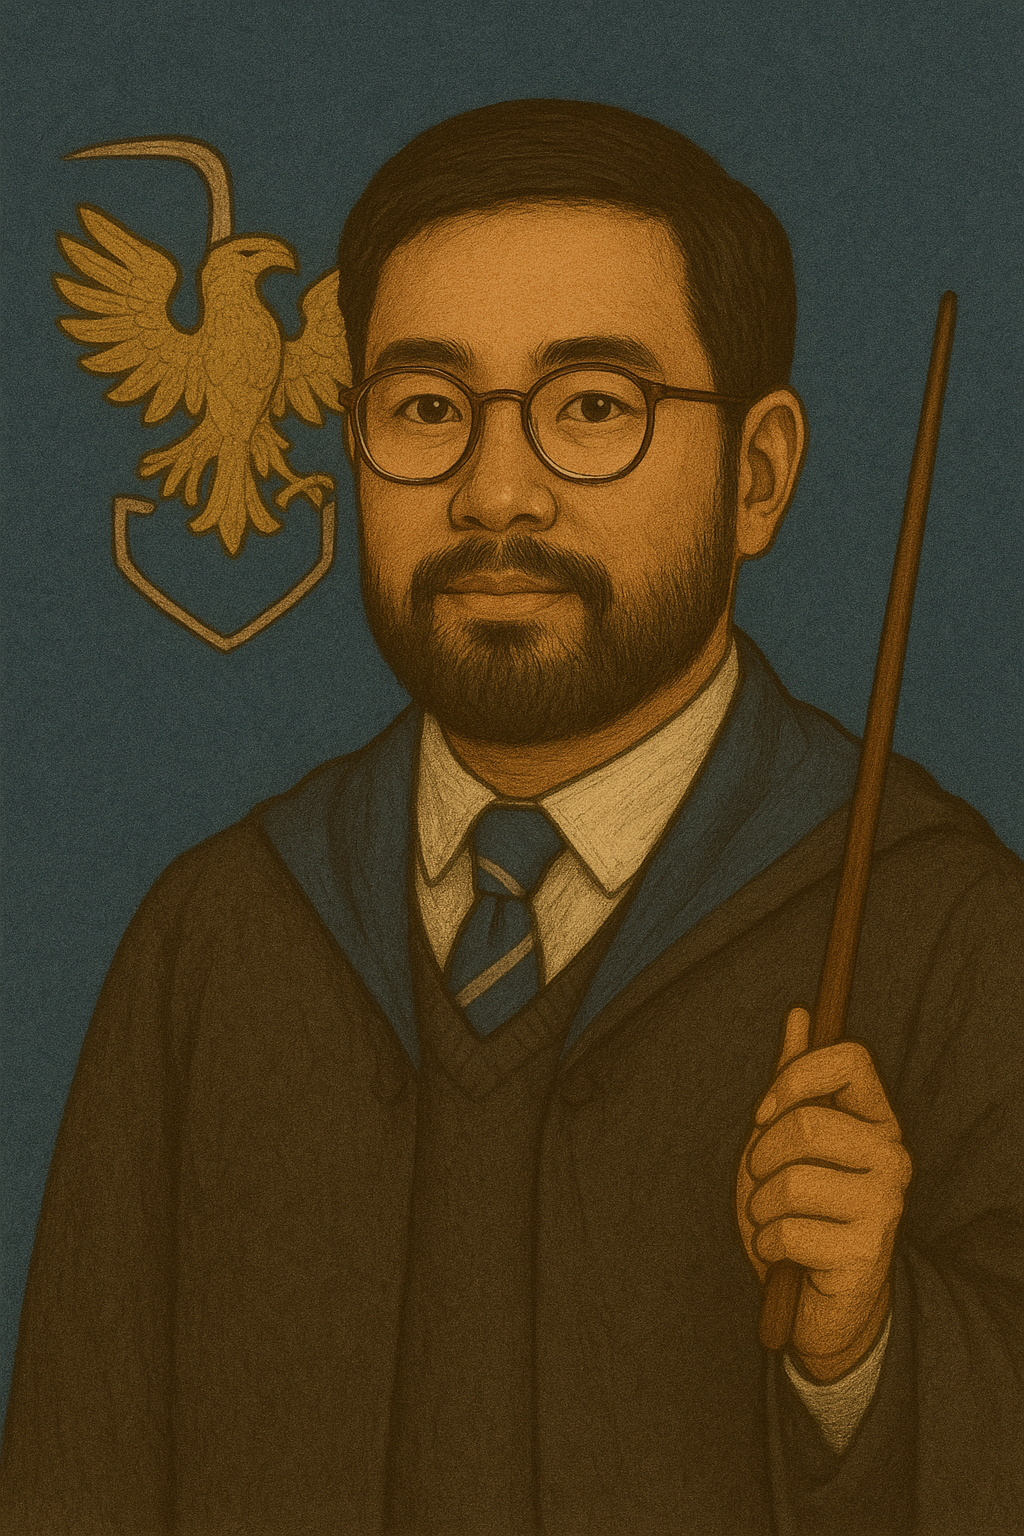
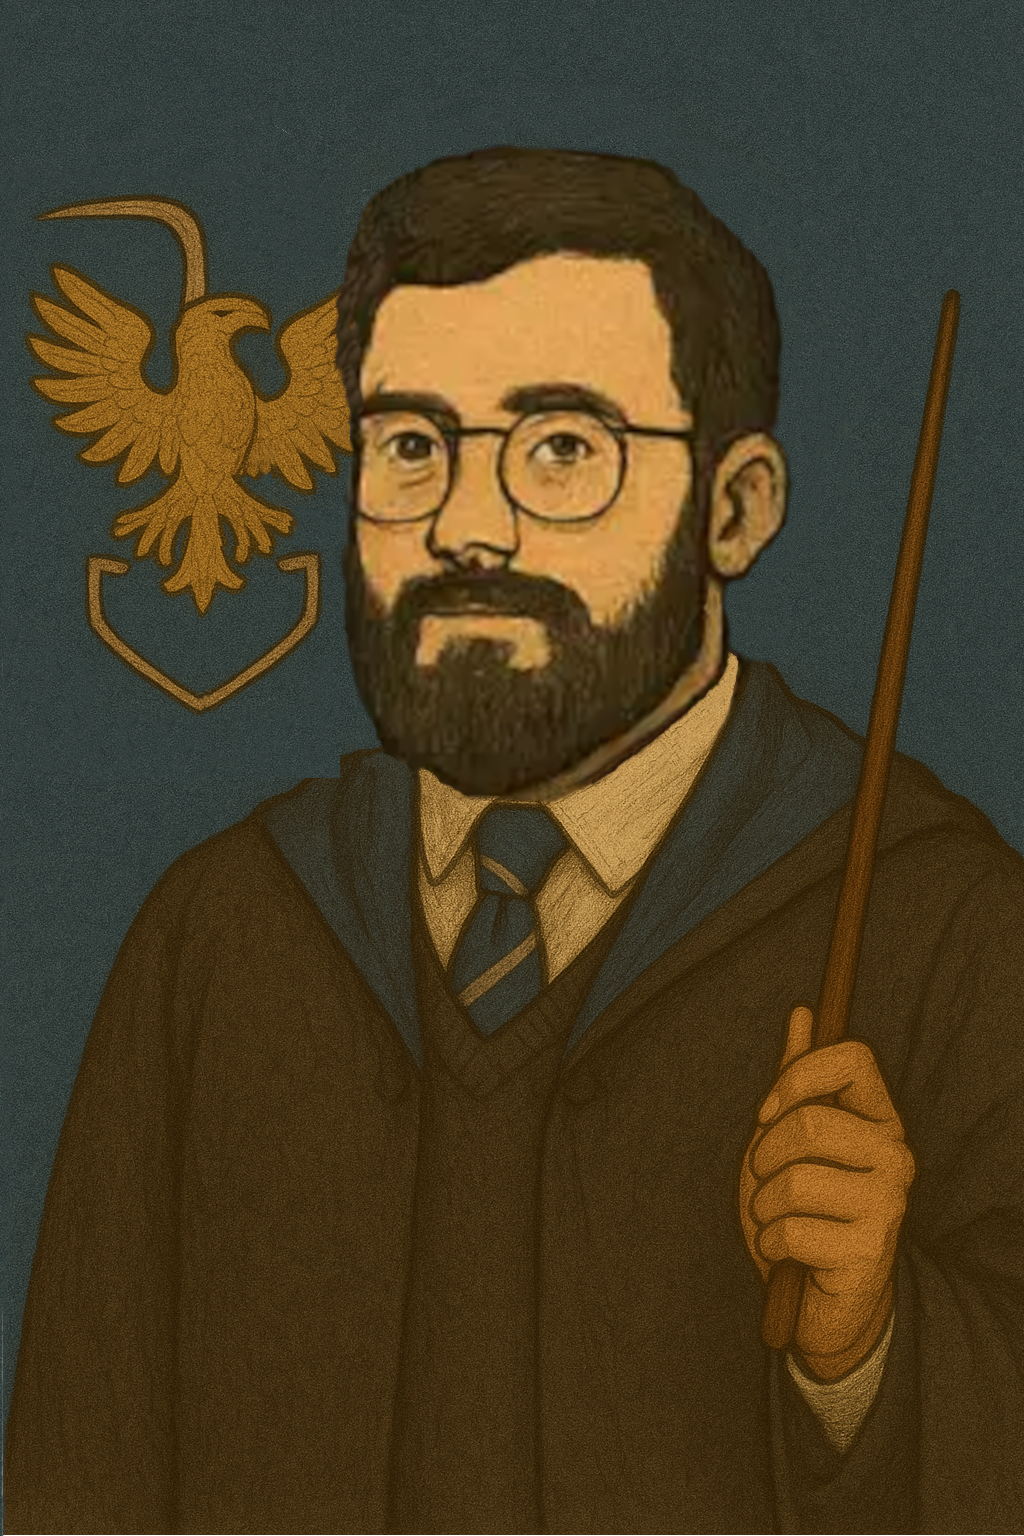
added easter egg link embedded into main html, edited my dev photo2 so I don't look asian, edited profile page so users can edit profiles, edited browse page and added a logout button

diff --git a/client/src/pages/ProfilePage.jsx b/client/src/pages/ProfilePage.jsx
@@ -13,6 +13,13 @@ const ProfilePage = () => {
     const viewedIdNum = parseInt(viewedUserId);
     const currentIdNum = currentUser?.id;
 
+    {/* TI BRANCH START */}
+
+    const [isEditing, setIsEditing] = useState(false);
+    const [editedProfile, setEditedProfile] = useState({ name: "", bio: ""});
+
+    {/* TI BRANCH END */}
+
     useEffect(() => {
         const fetchUserProfileAndConnection = async () => {
             try {
@@ -102,7 +109,67 @@ const ProfilePage = () => {
             <h1>{profileData.name}</h1>
             <p>{profileData.bio || "No bio available"}</p>
 
-            {connectionStatus === "self" && <button disabled>Edit Your Profile</button>}
+
+{/* TI BRANCH START */}
+            {isEditing && (
+    <form
+        onSubmit={async (e) => {
+            e.preventDefault();
+            try {
+                const res = await fetch(`/users/${currentIdNum}`, {
+                    method: "PUT",
+                    headers: {
+                        "Content-Type": "application/json",
+                    },
+                    body: JSON.stringify(editedProfile),
+                });
+
+                if (!res.ok) throw new Error("Update failed");
+                const updated = await res.json();
+                setProfileData(updated);
+                setIsEditing(false);
+            } catch (err) {
+                console.error("Failed to update profile:", err);
+                alert("Update failed.");
+            }
+        }}
+    >
+        <label>
+            Name:{" "}
+            <input
+                type="text"
+                value={editedProfile.name}
+                onChange={(e) => setEditedProfile({ ...editedProfile, name: e.target.value })}
+            />
+        </label>
+        <br />
+        <label>
+            Bio:{" "}
+            <textarea
+                value={editedProfile.bio}
+                onChange={(e) => setEditedProfile({ ...editedProfile, bio: e.target.value })}
+            />
+        </label>
+        <br />
+        <button type="submit">Save</button>
+        <button type="button" onClick={() => setIsEditing(false)}>
+            Cancel
+        </button>
+    </form>
+)}
+
+
+
+            {connectionStatus === "self" && !isEditing && (
+                <button onClick={() => {
+                    setEditedProfile({ name: profileData.name, bio: profileData.bio || "" });
+                    setIsEditing(true);
+                }}>
+                    Edit Your Profile
+                </button>
+            )}
+
+{/* TI BRANCH END */}
             {connectionStatus === "connected" && <button disabled>Connected</button>}
             {connectionStatus === "pending" && <button disabled>Request Pending</button>}
             {connectionStatus === "none" && (

diff --git a/client/src/pages/BrowsePage.jsx b/client/src/pages/BrowsePage.jsx
@@ -48,6 +48,29 @@ const BrowsePage = () => {
                 <p>Not logged in</p>
             )}
 
+            {/* TI BRANCH START */}
+
+            <button
+                onClick={async () => {
+                    const success = await logout();
+                    if (success) navigate("/login");
+                }}
+                style={{
+                    marginBottom: "20px",
+                    padding: "6px 12px",
+                    backgroundColor: "#444",
+                    color: "white",
+                    border: "none",
+                    cursor: "pointer",
+                    borderRadius: "4px",
+                }}
+                >
+                Log Out
+            </button>
+
+            {/* TI BRANCH END */}
+
+
             <p>Explore users who are offering and looking to learn new skills.</p>
 
             <h3>FOR TESTING PURPOSES: Click profiles below</h3>

diff --git a/client/index.html b/client/index.html
@@ -9,5 +9,6 @@
   <body>
     <div id="root"></div>
     <script type="module" src="/src/main.jsx"></script>
+    <a href="/founders" style="display: none;">Meet the Devs!</a>
   </body>
 </html>

diff --git a/client/src/index.css b/client/src/index.css
@@ -186,6 +186,7 @@ body {
 html,
 body {
   height: 100%;
+  width: 100%;
   margin: 0;
   padding: 0;
 }
